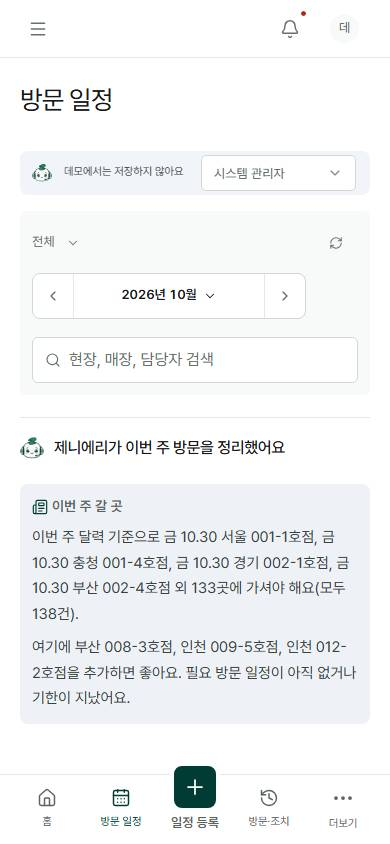
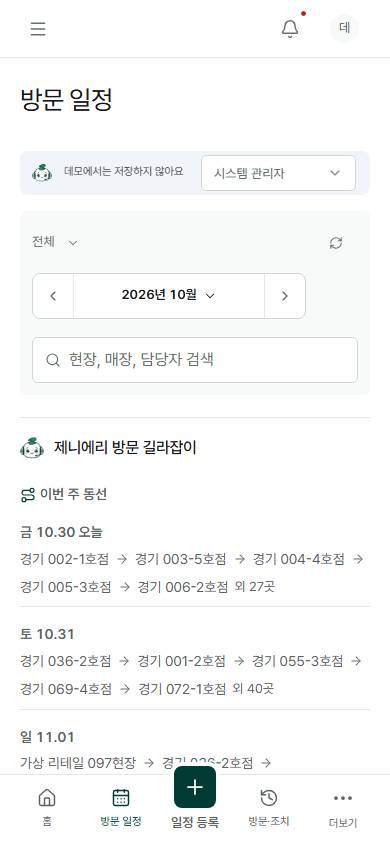
방문 일정 맨 위를 방문 길라잡이로(이번 주 동선·여기도 넣어 보세요·넣기 좋은 날로 바로 잡기), 브리핑 반복 삭제

diff --git a/app/platform/styles.css b/app/platform/styles.css
@@ -987,3 +987,12 @@
 .vs-say{margin:0 0 12px;padding:0}
 .vs-say .zeni-working-bubble{font-size:14px;line-height:1.6}
 .visit-suggest .vs-brief{display:inline-block;margin-right:6px;padding:0 6px;border-radius:4px;background:var(--zf-info-soft);color:var(--zf-brand-green);font-style:normal;font-size:12px;font-weight:600}
+/* 방문 길라잡이: 날마다 한 줄 [요일 날짜] 장소 → 장소 → 장소(같은 지역끼리) */
+.route-days{list-style:none;margin:0;padding:0;display:grid;gap:8px}
+.route-days li{display:grid;grid-template-columns:96px minmax(0,1fr);gap:12px;align-items:start;padding:8px 0;border-bottom:1px solid var(--zf-border)}
+.route-days li>b{font-size:14px;font-variant-numeric:tabular-nums}
+.route-days li>span{display:flex;flex-wrap:wrap;align-items:center;gap:6px;font-size:14px}
+.route-days em{font-style:normal}
+.route-days svg{color:var(--zf-text-muted)}
+.route-days small{color:var(--zf-text-secondary)}
+@media(max-width:760px){.route-days li{grid-template-columns:minmax(0,1fr);gap:4px}}

diff --git a/PROJECT_RULE.md b/PROJECT_RULE.md
@@ -45,7 +45,7 @@
 | DC-DESIGN-ZENIERI | AI 표시 = `AiMark`(`zenieri-chatbot.png`, 24/20/44px) 하나. 문장 = 제니에리 해요체 완결 문장·직함 호칭, 메모체·콜론 나열 금지(AI `briefPrompt`·규칙 `ruleBrief` 모두). 권한 안내는 거부 때만. 지침 9-B |
 | DC-DESIGN-BRIEF | 브리핑 = 제목 `제니에리가 정리해서 말씀드려요`·누구 이야기 → 무슨 일(한 문단) → 어디에 무엇이(요약+자세히 보기) → 이렇게 챙겨 보세요(보는 사람 관리 가이드·넘기는 지시 금지·복사) → 더 보기(이행 가이드+복사·전할 말·다음 주·근거·AI 고지). 칸 제목 14px·600+16px 아이콘, 상태 칩 하나+작성 중 가림막. 저장본 키 사용자·직급별·로그아웃 삭제. 지침 9-B |
 | DC-DESIGN-DASHBOARD | 모든 직급 같은 구성: H1 아래 기준 시각 → `ZeniCheer`(보는 범위 사실·자기 과거 비교·직함 호칭) → 브리핑 → 범위·탭 → 지표 4개 → 차트 한 쌍(조직 공백표 + 주별 이행률 꺾은선·축 하나) → 오늘·이번 주·안 끝난 조치 5줄+전체 보기. 누적 막대·이중 축·도넛·게이지·중복 차트·조직 순위 금지. 지침 6.1 |
-| DC-DESIGN-SCHEDULE | 방문 일정 정리 = 이번 주 갈 곳(달력 기준)·더 넣으면 좋은 곳, `무슨 일` 문단 중복 금지. 일정 등록 추천은 `briefPlaces`로 브리핑 연결(말풍선·꼬리표·맨 앞). 추천 정렬 칩 급한 순(attentionOf)·오래 못 간 순·지역별·밀린 조치(사실 정렬, 점수 금지). 브리핑 가이드 줄 버튼은 줄 끝(1023px 이하 문장 아래). 방문 일정 기본: 잡매니저 월간 / 파트장 이상 단위×요일 주간. 등록 = `VisitSuggest`(먼저 가 보면 좋은 곳 5곳: 왜·주기·마지막 방문·확인할 것·같은 날 함께, `attentionOf`→`staleStores`, 사전 확인사항 빈칸 채움) → 7일 빈 날 → `schedule.ts` 후보 5개. 사람이 고른 값 우선 |
+| DC-DESIGN-SCHEDULE | 방문 일정 맨 위 = 방문 길라잡이(이번 주 동선·여기도 넣어 보세요+넣기 좋은 날), 브리핑·`무슨 일` 문단 금지. 일정 등록 추천은 `briefPlaces`로 브리핑 연결(말풍선·꼬리표·맨 앞). 추천 정렬 칩 급한 순(attentionOf)·오래 못 간 순·지역별·밀린 조치(사실 정렬, 점수 금지). 브리핑 가이드 줄 버튼은 줄 끝(1023px 이하 문장 아래). 방문 일정 기본: 잡매니저 월간 / 파트장 이상 단위×요일 주간. 등록 = `VisitSuggest`(먼저 가 보면 좋은 곳 5곳: 왜·주기·마지막 방문·확인할 것·같은 날 함께, `attentionOf`→`staleStores`, 사전 확인사항 빈칸 채움) → 7일 빈 날 → `schedule.ts` 후보 5개. 사람이 고른 값 우선 |
 | DC-DESIGN-RECORDS | 방문 기록 = 표 위 탭 한 줄 단일 선택(전체·먼저 볼 보고·안 끝난 이슈·고객 요청·결과 안 쓴 방문), 기준 `judgment.ts` issueGuide(저장 판정만), 0건 숨김, 줄마다 걸린 이슈. 이슈 종류 묶음·판정 수준 묶음·다단계 필터 금지 |
 | DC-DESIGN-FORM | 입력 폼 = 한 열 기본(짧은 짝 칸만 2열), 라벨 위, 선택 칸 `(선택)` 표시. 금지: 안내 박스·준비 중 기능 안내·구역 번호·같은 안내 중복·선택 칸 접기. 새로 만들 때 진행 상태 칸 숨김, 수시 방문은 예정 시간·사전 확인사항 숨김. 혼자 남는 칸은 한 줄 전체. 갱신 2026-10-30 |
 | DC-DESIGN-PAGE-GUIDE | 방문 일정·방문 기록·후속 조치 맨 위 제니에리 정리(같은 틀: 무슨 일 문단 → 할 일 한 문장 + 3건). 줄 = [대상·내용(열기)] [바로 하기 작은 버튼: 일정 잡기·결과 쓰기] [받는 사람에게 보낼 말 복사 44px] 한 줄. 브리핑 `이렇게 챙겨 보세요`도 같은 바로 하기·복사, 문장 속 현장·매장 이름 링크. `page-guide.tsx`·`action-brief.tsx`. 갱신 2026-10-30 |

diff --git a/AGENTS.md b/AGENTS.md
@@ -75,7 +75,7 @@
 - 한 화면 한 번: 같은 숫자·목록을 두 곳에 두지 않음. 조직 표 순위 정렬 금지.
 
 **방문 일정**
-- 맨 위 제니에리 정리(`page-guide.tsx`): `이번 주 갈 곳`(달력 기준 어디어디) → `더 넣으면 좋은 곳` 3곳(일정 잡기·보낼 말). `무슨 일` 문단은 방문·조치에만.
+- 맨 위 `제니에리 방문 길라잡이`(브리핑 반복 금지): 이번 주 동선(날마다 장소 → 장소, 같은 지역끼리) → 여기도 넣어 보세요 3곳(넣기 좋은 날 + `MM.DD에 잡기`·보낼 말).
 - 일정 등록 추천: 제니에리 말풍선(브리핑에서 짚은 곳부터 + 이유), 그 곳은 꼬리표·맨 앞(`briefPlaces`).
 - 기본 보기: 잡매니저 월간 / 파트장 이상 하위 단위×요일 주간 달력.
 - 등록(AI 기본·`직접 입력` 전환): 추천 위 정렬 칩(급한 순·오래 못 간 순·지역별·밀린 조치). 대상 고르기 전 `제니에리가 먼저 가 보면 좋은 곳을 골랐어요` 최대 5곳(왜·주기·마지막 방문·확인할 것·같은 날 함께) → 앞 7일 빈 날 칩 → 대상 정하면 사실 한 줄+후보 날짜 5개(`schedule.ts`). 사람이 고른 값 우선, AI 초안은 빈칸만.
